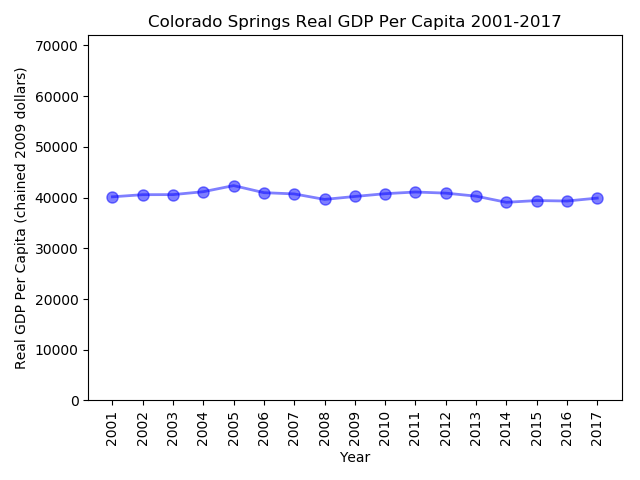
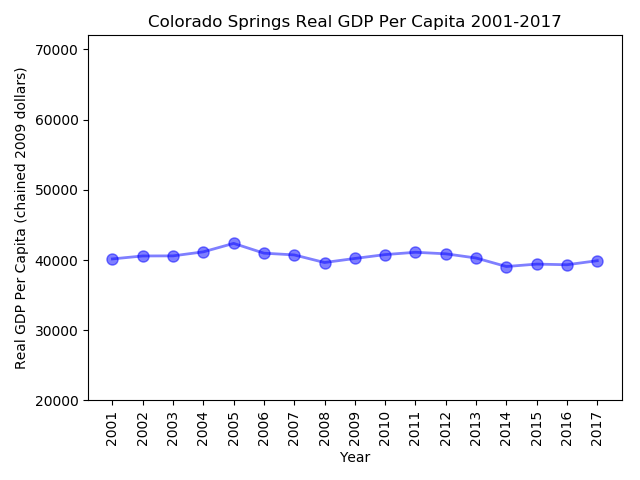
changed lower bound on y axis of graphs

diff --git a/src/rc_business_eda_analysis.py b/src/rc_business_eda_analysis.py
@@ -395,13 +395,13 @@ if __name__ == '__main__':
 
     # number of businesses formed per year - linear regression
     linear_regression(count_per_year, 'year', 'total', 'State Number of Businesses Formed Per Year', 'Year', 'Number of Businesses', y_min=0, y_max=110000)
-    linear_regression(count_per_year, 'year', 'population', 'State Population Per Year', 'Year', 'Population', y_min=0, y_max=6000000)
+    linear_regression(count_per_year, 'year', 'population', 'State Population Per Year', 'Year', 'Population', y_min=4000000, y_max=6000000)
     linear_regression(count_per_year, 'year', 'bus_formed_per_1000_residents', 'State Businesses Formed Per 1000 Residents', 'Year', 'Number of Businesses Per 1000 Residents')
 
     # real gdp per capita
     linear_regression(df_co_gdp, 'year', 'real_gdp_per_capita', 'State Real GDP Per Capita 2001-2017 Zoomed', 'Year', 'Real GDP Per Capita (chained 2012 dollars)')
-    linear_regression(df_co_gdp, 'year', 'real_gdp_per_capita', 'State Real GDP Per Capita 2001-2017', 'Year', 'Real GDP Per Capita (chained 2012 dollars)', y_min=0, y_max=72000)
-    simple_line_plot(df_co_gdp, 'year', 'real_gdp_per_capita', 'Year', 'Real GDP Per Capita (chained 2012 dollars)', 'State Real GDP Per Capita 2001-2017', label_vert='vertical', y_min=0, y_max=72000)
+    linear_regression(df_co_gdp, 'year', 'real_gdp_per_capita', 'State Real GDP Per Capita 2001-2017', 'Year', 'Real GDP Per Capita (chained 2012 dollars)', y_min=20000, y_max=72000)
+    simple_line_plot(df_co_gdp, 'year', 'real_gdp_per_capita', 'Year', 'Real GDP Per Capita (chained 2012 dollars)', 'State Real GDP Per Capita 2001-2017', label_vert='vertical', y_min=20000, y_max=72000)
 
 
     '''Create new dataframes for each metro area'''
@@ -452,7 +452,7 @@ if __name__ == '__main__':
 
     # real gdp per capita
     linear_regression(df_gdp_denver, 'year', 'real_per_capita_gdp', 'Denver Real GDP Per Capita 2001-2017', 'Year', 'Real GDP Per Capita (chained 2009 dollars)')
-    simple_line_plot(df_gdp_denver, 'year', 'real_per_capita_gdp', 'Year', 'Real GDP Per Capita (chained 2009 dollars)', 'Denver Real GDP Per Capita 2001-2017', label_vert='vertical', y_min=0, y_max=72000)
+    simple_line_plot(df_gdp_denver, 'year', 'real_per_capita_gdp', 'Year', 'Real GDP Per Capita (chained 2009 dollars)', 'Denver Real GDP Per Capita 2001-2017', label_vert='vertical', y_min=20000, y_max=72000)
     simple_line_plot(df_gdp_denver, 'year', 'real_per_capita_gdp', 'Year', 'Real GDP Per Capita (chained 2009 dollars)', 'Denver Real GDP Per Capita 2001-2017 Zoomed', label_vert='vertical')
 
 
@@ -494,7 +494,7 @@ if __name__ == '__main__':
 
     # real gdp per capita
     linear_regression(df_gdp_col_springs, 'year', 'real_per_capita_gdp', 'Colorado Springs Real GDP Per Capita 2001-2017', 'Year', 'Real GDP Per Capita (chained 2009 dollars)')
-    simple_line_plot(df_gdp_col_springs, 'year', 'real_per_capita_gdp', 'Year', 'Real GDP Per Capita (chained 2009 dollars)', 'Colorado Springs Real GDP Per Capita 2001-2017', label_vert='vertical', y_min=0, y_max=72000)
+    simple_line_plot(df_gdp_col_springs, 'year', 'real_per_capita_gdp', 'Year', 'Real GDP Per Capita (chained 2009 dollars)', 'Colorado Springs Real GDP Per Capita 2001-2017', label_vert='vertical', y_min=20000, y_max=72000)
     simple_line_plot(df_gdp_col_springs, 'year', 'real_per_capita_gdp', 'Year', 'Real GDP Per Capita (chained 2009 dollars)', 'Colorado Springs Real GDP Per Capita 2001-2017 Zoomed', label_vert='vertical')
 
 
@@ -536,7 +536,7 @@ if __name__ == '__main__':
 
     # real gdp per capita
     linear_regression(df_gdp_greeley, 'year', 'real_per_capita_gdp', 'Greeley Real GDP Per Capita 2001-2017', 'Year', 'Real GDP Per Capita (chained 2009 dollars)')
-    simple_line_plot(df_gdp_greeley, 'year', 'real_per_capita_gdp', 'Year', 'Real GDP Per Capita (chained 2009 dollars)', 'Greeley Real GDP Per Capita 2001-2017', label_vert='vertical', y_min=0, y_max=72000)
+    simple_line_plot(df_gdp_greeley, 'year', 'real_per_capita_gdp', 'Year', 'Real GDP Per Capita (chained 2009 dollars)', 'Greeley Real GDP Per Capita 2001-2017', label_vert='vertical', y_min=20000, y_max=72000)
     simple_line_plot(df_gdp_greeley, 'year', 'real_per_capita_gdp', 'Year', 'Real GDP Per Capita (chained 2009 dollars)', 'Greeley Real GDP Per Capita 2001-2017 Zoomed', label_vert='vertical')
 
 
@@ -578,7 +578,7 @@ if __name__ == '__main__':
 
     # real gdp per capita
     linear_regression(df_gdp_pueblo, 'year', 'real_per_capita_gdp', 'Pueblo Real GDP Per Capita 2001-2017', 'Year', 'Real GDP Per Capita (chained 2009 dollars)')
-    simple_line_plot(df_gdp_pueblo, 'year', 'real_per_capita_gdp', 'Year', 'Real GDP Per Capita (chained 2009 dollars)', 'Pueblo Real GDP Per Capita 2001-2017', label_vert='vertical', y_min=0, y_max=72000)
+    simple_line_plot(df_gdp_pueblo, 'year', 'real_per_capita_gdp', 'Year', 'Real GDP Per Capita (chained 2009 dollars)', 'Pueblo Real GDP Per Capita 2001-2017', label_vert='vertical', y_min=20000, y_max=72000)
     simple_line_plot(df_gdp_pueblo, 'year', 'real_per_capita_gdp', 'Year', 'Real GDP Per Capita (chained 2009 dollars)', 'Pueblo Real GDP Per Capita 2001-2017 Zoomed', label_vert='vertical')
 
 
@@ -620,7 +620,7 @@ if __name__ == '__main__':
 
     # real gdp per capita
     linear_regression(df_gdp_fort_col, 'year', 'real_per_capita_gdp', 'Fort Collins Real GDP Per Capita 2001-2017', 'Year', 'Real GDP Per Capita (chained 2009 dollars)')
-    simple_line_plot(df_gdp_fort_col, 'year', 'real_per_capita_gdp', 'Year', 'Real GDP Per Capita (chained 2009 dollars)', 'Fort Collins Real GDP Per Capita 2001-2017', label_vert='vertical', y_min=0, y_max=72000)
+    simple_line_plot(df_gdp_fort_col, 'year', 'real_per_capita_gdp', 'Year', 'Real GDP Per Capita (chained 2009 dollars)', 'Fort Collins Real GDP Per Capita 2001-2017', label_vert='vertical', y_min=20000, y_max=72000)
     simple_line_plot(df_gdp_fort_col, 'year', 'real_per_capita_gdp', 'Year', 'Real GDP Per Capita (chained 2009 dollars)', 'Fort Collins Real GDP Per Capita 2001-2017 Zoomed', label_vert='vertical')
 
 
@@ -662,7 +662,7 @@ if __name__ == '__main__':
 
     # real gdp per capita
     linear_regression(df_gdp_boulder, 'year', 'real_per_capita_gdp', 'Boulder Real GDP Per Capita 2001-2017', 'Year', 'Real GDP Per Capita (chained 2009 dollars)')
-    simple_line_plot(df_gdp_boulder, 'year', 'real_per_capita_gdp', 'Year', 'Real GDP Per Capita (chained 2009 dollars)', 'Boulder Real GDP Per Capita 2001-2017', label_vert='vertical', y_min=0, y_max=72000)
+    simple_line_plot(df_gdp_boulder, 'year', 'real_per_capita_gdp', 'Year', 'Real GDP Per Capita (chained 2009 dollars)', 'Boulder Real GDP Per Capita 2001-2017', label_vert='vertical', y_min=20000, y_max=72000)
     simple_line_plot(df_gdp_boulder, 'year', 'real_per_capita_gdp', 'Year', 'Real GDP Per Capita (chained 2009 dollars)', 'Boulder Real GDP Per Capita 2001-2017 Zoomed', label_vert='vertical')
 
     '''Grand Junction Metro Area'''
@@ -703,7 +703,7 @@ if __name__ == '__main__':
 
     # real gdp per capita
     linear_regression(df_gdp_grand_junc, 'year', 'real_per_capita_gdp', 'Grand Junction Real GDP Per Capita 2001-2017', 'Year', 'Real GDP Per Capita (chained 2009 dollars)')
-    simple_line_plot(df_gdp_grand_junc, 'year', 'real_per_capita_gdp', 'Year', 'Real GDP Per Capita (chained 2009 dollars)', 'Grand Junction Real GDP Per Capita 2001-2017', label_vert='vertical', y_min=0, y_max=72000)
+    simple_line_plot(df_gdp_grand_junc, 'year', 'real_per_capita_gdp', 'Year', 'Real GDP Per Capita (chained 2009 dollars)', 'Grand Junction Real GDP Per Capita 2001-2017', label_vert='vertical', y_min=20000, y_max=72000)
     simple_line_plot(df_gdp_grand_junc, 'year', 'real_per_capita_gdp', 'Year', 'Real GDP Per Capita (chained 2009 dollars)', 'Grand Junction Real GDP Per Capita 2001-2017 Zoomed', label_vert='vertical')
 
 
